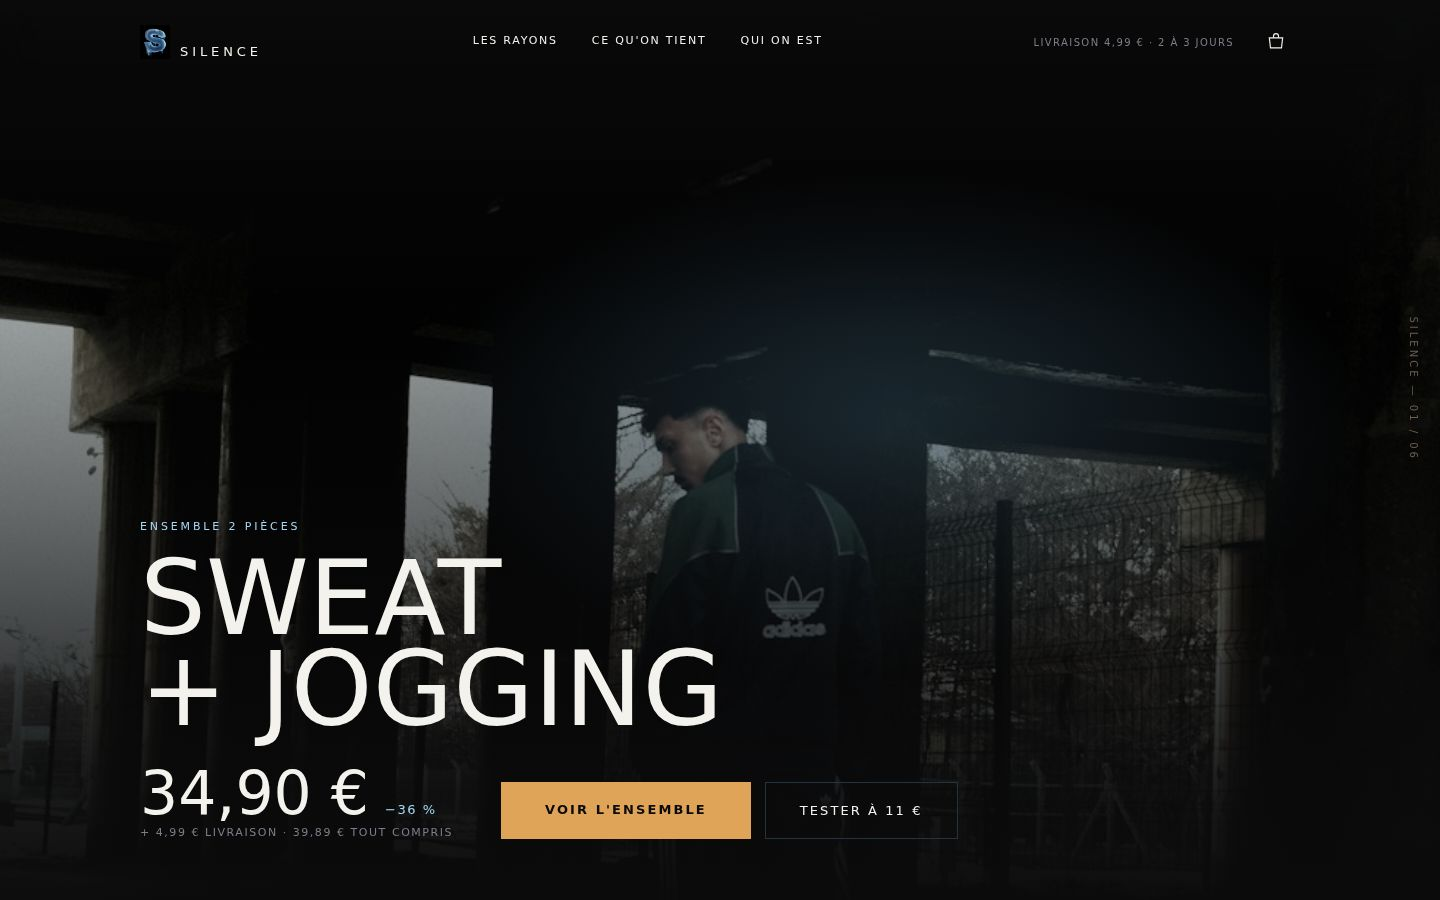
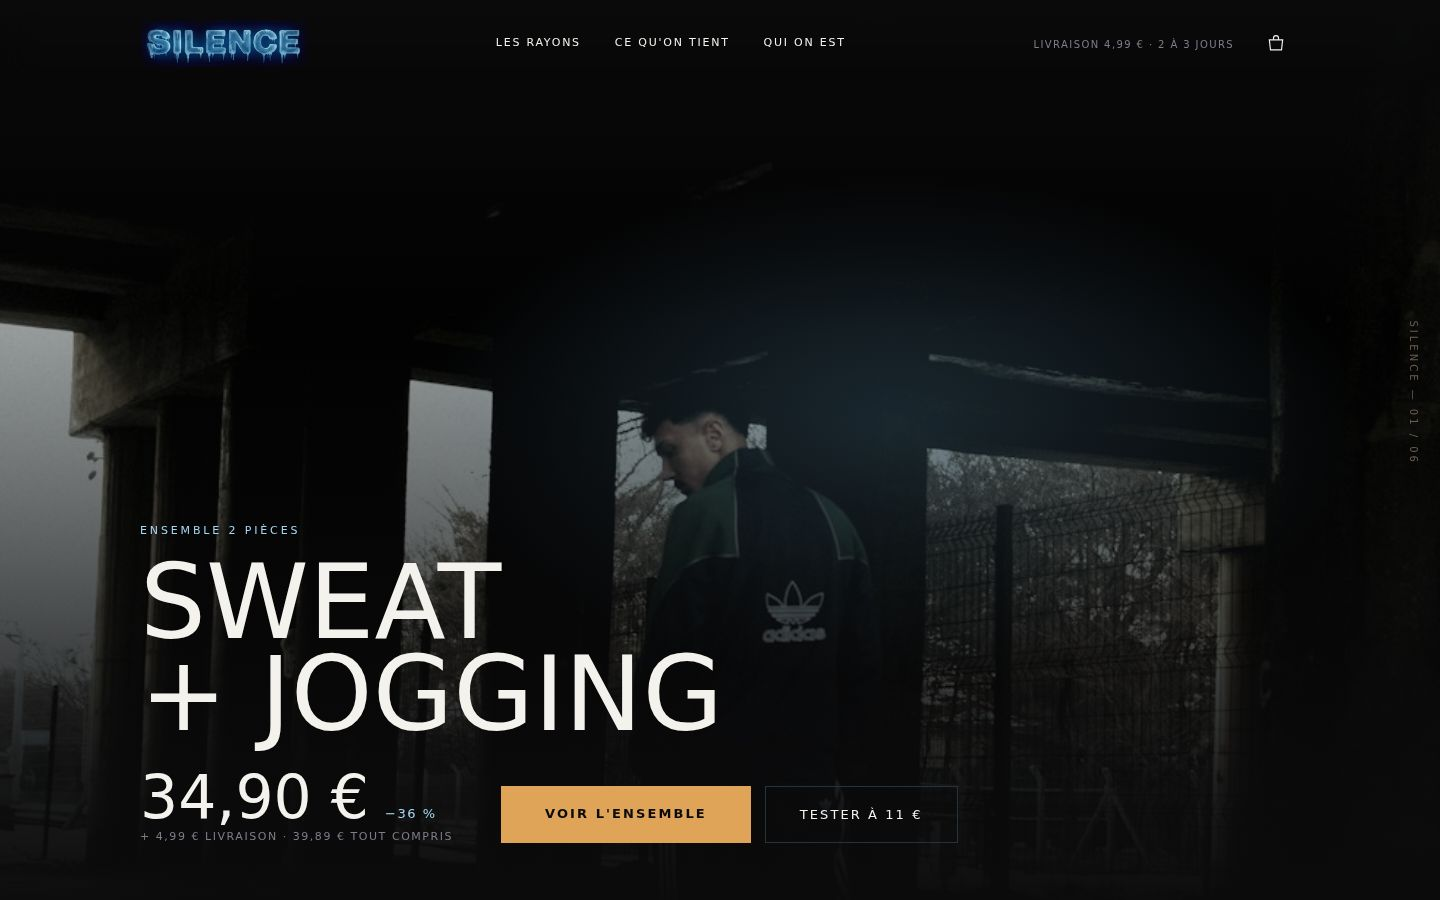
Le mot SILENCE entier dans la barre, et un vrai detourage
Le S servait de logo dans la barre du haut des 3 ecrans. C'est l'avatar
des reseaux, pas le logo du site : remplace par le mot entier.

Le logo sort avec un fond bleu nuit #121929. mix-blend-mode: screen le
cachait sur du noir uni mais faisait une boite claire des qu'une photo
passait derriere — visible dans la barre, au-dessus de la photo
d'accueil. Les logos sont maintenant detoures pour de vrai : chaque pixel
garde sa couleur, sa transparence suit sa luminosite.

marque/logo/LIRE.md dit desormais quel fichier va ou.

Claude-Session: https://claude.ai/code/session_0183MMK2pzZPAQDNWAszAJNp

diff --git a/site/project/Fiche.dc.html b/site/project/Fiche.dc.html
@@ -29,8 +29,7 @@
       Les rayons
     </a>
     <a href="Main.dc.html" style="display: flex; align-items: flex-end; gap: 8px">
-      <img src="img/s.png" alt="" style="width: 26px; height: 29px; object-fit: contain; mix-blend-mode: screen; display: block">
-      <span style="font-size: 12px; font-weight: 600; letter-spacing: 0.34em; text-indent: 0.34em">SILENCE</span>
+      <img src="img/logo-barre.png" alt="SILENCE" style="width: 118px; display: block" />
     </a>
     <button type="button" data-ouvrir-panier aria-label="Ton panier" style="position: relative; background: none; border: none; padding: 10px; cursor: pointer; min-width: 44px; min-height: 44px">
       <svg viewBox="0 0 24 24" style="width: 19px; height: 19px; display: block" fill="none" stroke="#F4F2ED" stroke-width="1.4"><path d="M4 7h16l-1.4 12H5.4L4 7Z"></path><path d="M9 7V5a3 3 0 0 1 6 0v2"></path></svg>
@@ -181,7 +180,7 @@
   <!-- ╔═══ LE PIED — le sigil et les pages obligatoires ═══╗ -->
   <div style="padding: 40px 20px 28px; border-top: 1px dashed #26323C; margin-top: 44px">
     <div style="display: flex; align-items: flex-end; gap: 9px; margin-bottom: 20px">
-      <img src="img/logo-mot.png" alt="SILENCE" style="width: 175px; mix-blend-mode: screen; display: block">
+      <img src="img/logo-mot.png" alt="SILENCE" style="width: 175px; display: block">
       
     </div>
     <div style="font-size: 11px; letter-spacing: 0.1em; line-height: 2.4; color: #B8BEC8; text-transform: uppercase">

diff --git a/site/project/Main.dc.html b/site/project/Main.dc.html
@@ -25,8 +25,7 @@
   <!-- ╔═══ LA BARRE — fine, transparente, 4 mots max ═══╗ -->
   <div style="display: flex; align-items: center; justify-content: space-between; padding: 18px 18px 16px">
     <div style="display: flex; align-items: flex-end; gap: 8px">
-      <img src="img/s.png" alt="" style="width: 26px; height: 29px; object-fit: contain; mix-blend-mode: screen; display: block">
-      <span class="u" style="font-size: 12px; letter-spacing: 0.3em">Silence</span>
+      <img src="img/logo-barre.png" alt="SILENCE" style="width: 128px; display: block" />
     </div>
     <div style="display: flex; gap: 18px; align-items: center">
       <a href="#rayons" class="u" style="font-size: 11px; letter-spacing: 0.14em; padding: 12px 0">Rayons</a>
@@ -137,7 +136,7 @@
   <div style="padding: 0 18px 44px">
     <hr class="trait" style="margin-bottom: 26px">
     <div style="display: flex; align-items: flex-end; gap: 9px; margin-bottom: 22px">
-      <img src="img/logo-mot.png" alt="SILENCE" style="width: 175px; mix-blend-mode: screen; display: block">
+      <img src="img/logo-mot.png" alt="SILENCE" style="width: 175px; display: block">
     </div>
     <div class="u" style="font-size: 11px; letter-spacing: 0.1em; line-height: 2.1; color: #B8BEC8">
       <a href="mailto:silenceworldwide@gmail.com" style="border-bottom: 1px solid #A5D8F3">silenceworldwide@gmail.com</a><br>

diff --git a/site/project/Bureau.dc.html b/site/project/Bureau.dc.html
@@ -57,8 +57,7 @@
   <div style="position: sticky; top: 0; z-index: 30; background: rgba(11,11,12,{{voileBarre}}); backdrop-filter: blur(14px)">
     <div style="max-width: 1240px; margin: 0 auto; padding: 20px 40px; display: flex; align-items: center; justify-content: space-between; gap: 40px">
       <div style="display: flex; align-items: flex-end; gap: 10px">
-        <img src="img/s.png" alt="" style="width: 30px; height: 34px; object-fit: contain; mix-blend-mode: screen; display: block">
-        <span class="u" style="font-size: 13px; letter-spacing: 0.3em">Silence</span>
+        <img src="img/logo-barre.png" alt="SILENCE" style="width: 168px; display: block" />
       </div>
 
       <nav style="display: flex; gap: 34px">
@@ -211,7 +210,7 @@
     <div style="display: grid; grid-template-columns: repeat(3, minmax(0, 1fr)); gap: 56px">
       <div>
         <div style="display: flex; align-items: flex-end; gap: 10px; margin-bottom: 20px">
-          <img src="img/logo-mot.png" alt="SILENCE" style="width: 230px; mix-blend-mode: screen; display: block">
+          <img src="img/logo-mot.png" alt="SILENCE" style="width: 230px; display: block">
         </div>
         <div class="u" style="font-size: 10px; letter-spacing: 0.12em; color: #55555F; line-height: 2.2">
           [Raison sociale]<br>[Adresse]<br>[Siret]

diff --git a/marque/logo/LIRE.md b/marque/logo/LIRE.md
@@ -8,26 +8,40 @@
 🔴 **Ces deux documents sont périmés. Ils décrivent un logo qui n'existe plus.**
 À refaire une fois la couleur du site tranchée.
 
+## 🔴 Qui va où
+
+```
+LE MOT ENTIER   la barre du haut et le pied du site
+                mot-barre-transparent.png
+
+LE S SEUL       UNIQUEMENT les réseaux et la favicon
+                → jamais dans la barre du site
+```
+
 ## Les fichiers
 
 | Fichier | Taille | Pour quoi |
 |---|---|---|
-| `logo-mot.png` | 2000 × 485 | **le site** — le bandeau découpé, sans le SILENCE fantôme du haut |
+| `mot-barre-transparent.png` | 1240 × 355 | **le site** — fond transparent, va sur n'importe quoi |
+| `s-fond-noir-transparent.png` | 800 × 900 | le S détouré — réseaux et favicon |
+| `mot-barre.png` | 1240 × 355 | le mot sur fond noir |
 | `logo-avatar.png` | 1000 × 1000 | Instagram, TikTok, la favicon |
 | `logo-bandeau.jpg` | 2000 × 661 | l'original, avec le fantôme |
 | `logo-bandeau-2.jpg` | 2000 × 661 | l'original, deuxième version |
 | `logo-vertical.jpg` | 1116 × 2000 | les stories et les vidéos |
 | `logo-rond.jpg` | 2000 × 2000 | l'original du rond |
 
-## Comment le poser sur du noir
+## Pourquoi les versions transparentes
 
-Le logo a un fond bleu nuit. Sur un fond noir, ça ferait un rectangle visible.
+Le logo sort de Gemini avec un fond bleu nuit **#121929**.
 
-```css
-mix-blend-mode: screen;
-```
+On a d'abord essayé `mix-blend-mode: screen` : ça marche sur du noir uni, mais
+**ça fait une boîte claire dès qu'il y a une photo derrière**. Vu sur la barre
+du haut, au-dessus de la photo d'accueil.
 
-Le bleu nuit disparaît, la glace reste et brille. **Gratuit, une ligne.**
+La vraie solution : **le fond est devenu transparent pour de vrai**. Chaque
+pixel garde sa couleur, et sa transparence suit sa luminosité — le noir
+disparaît, la glace reste. Le logo va désormais sur n'importe quel fond.
 
 ## La question ouverte
 
